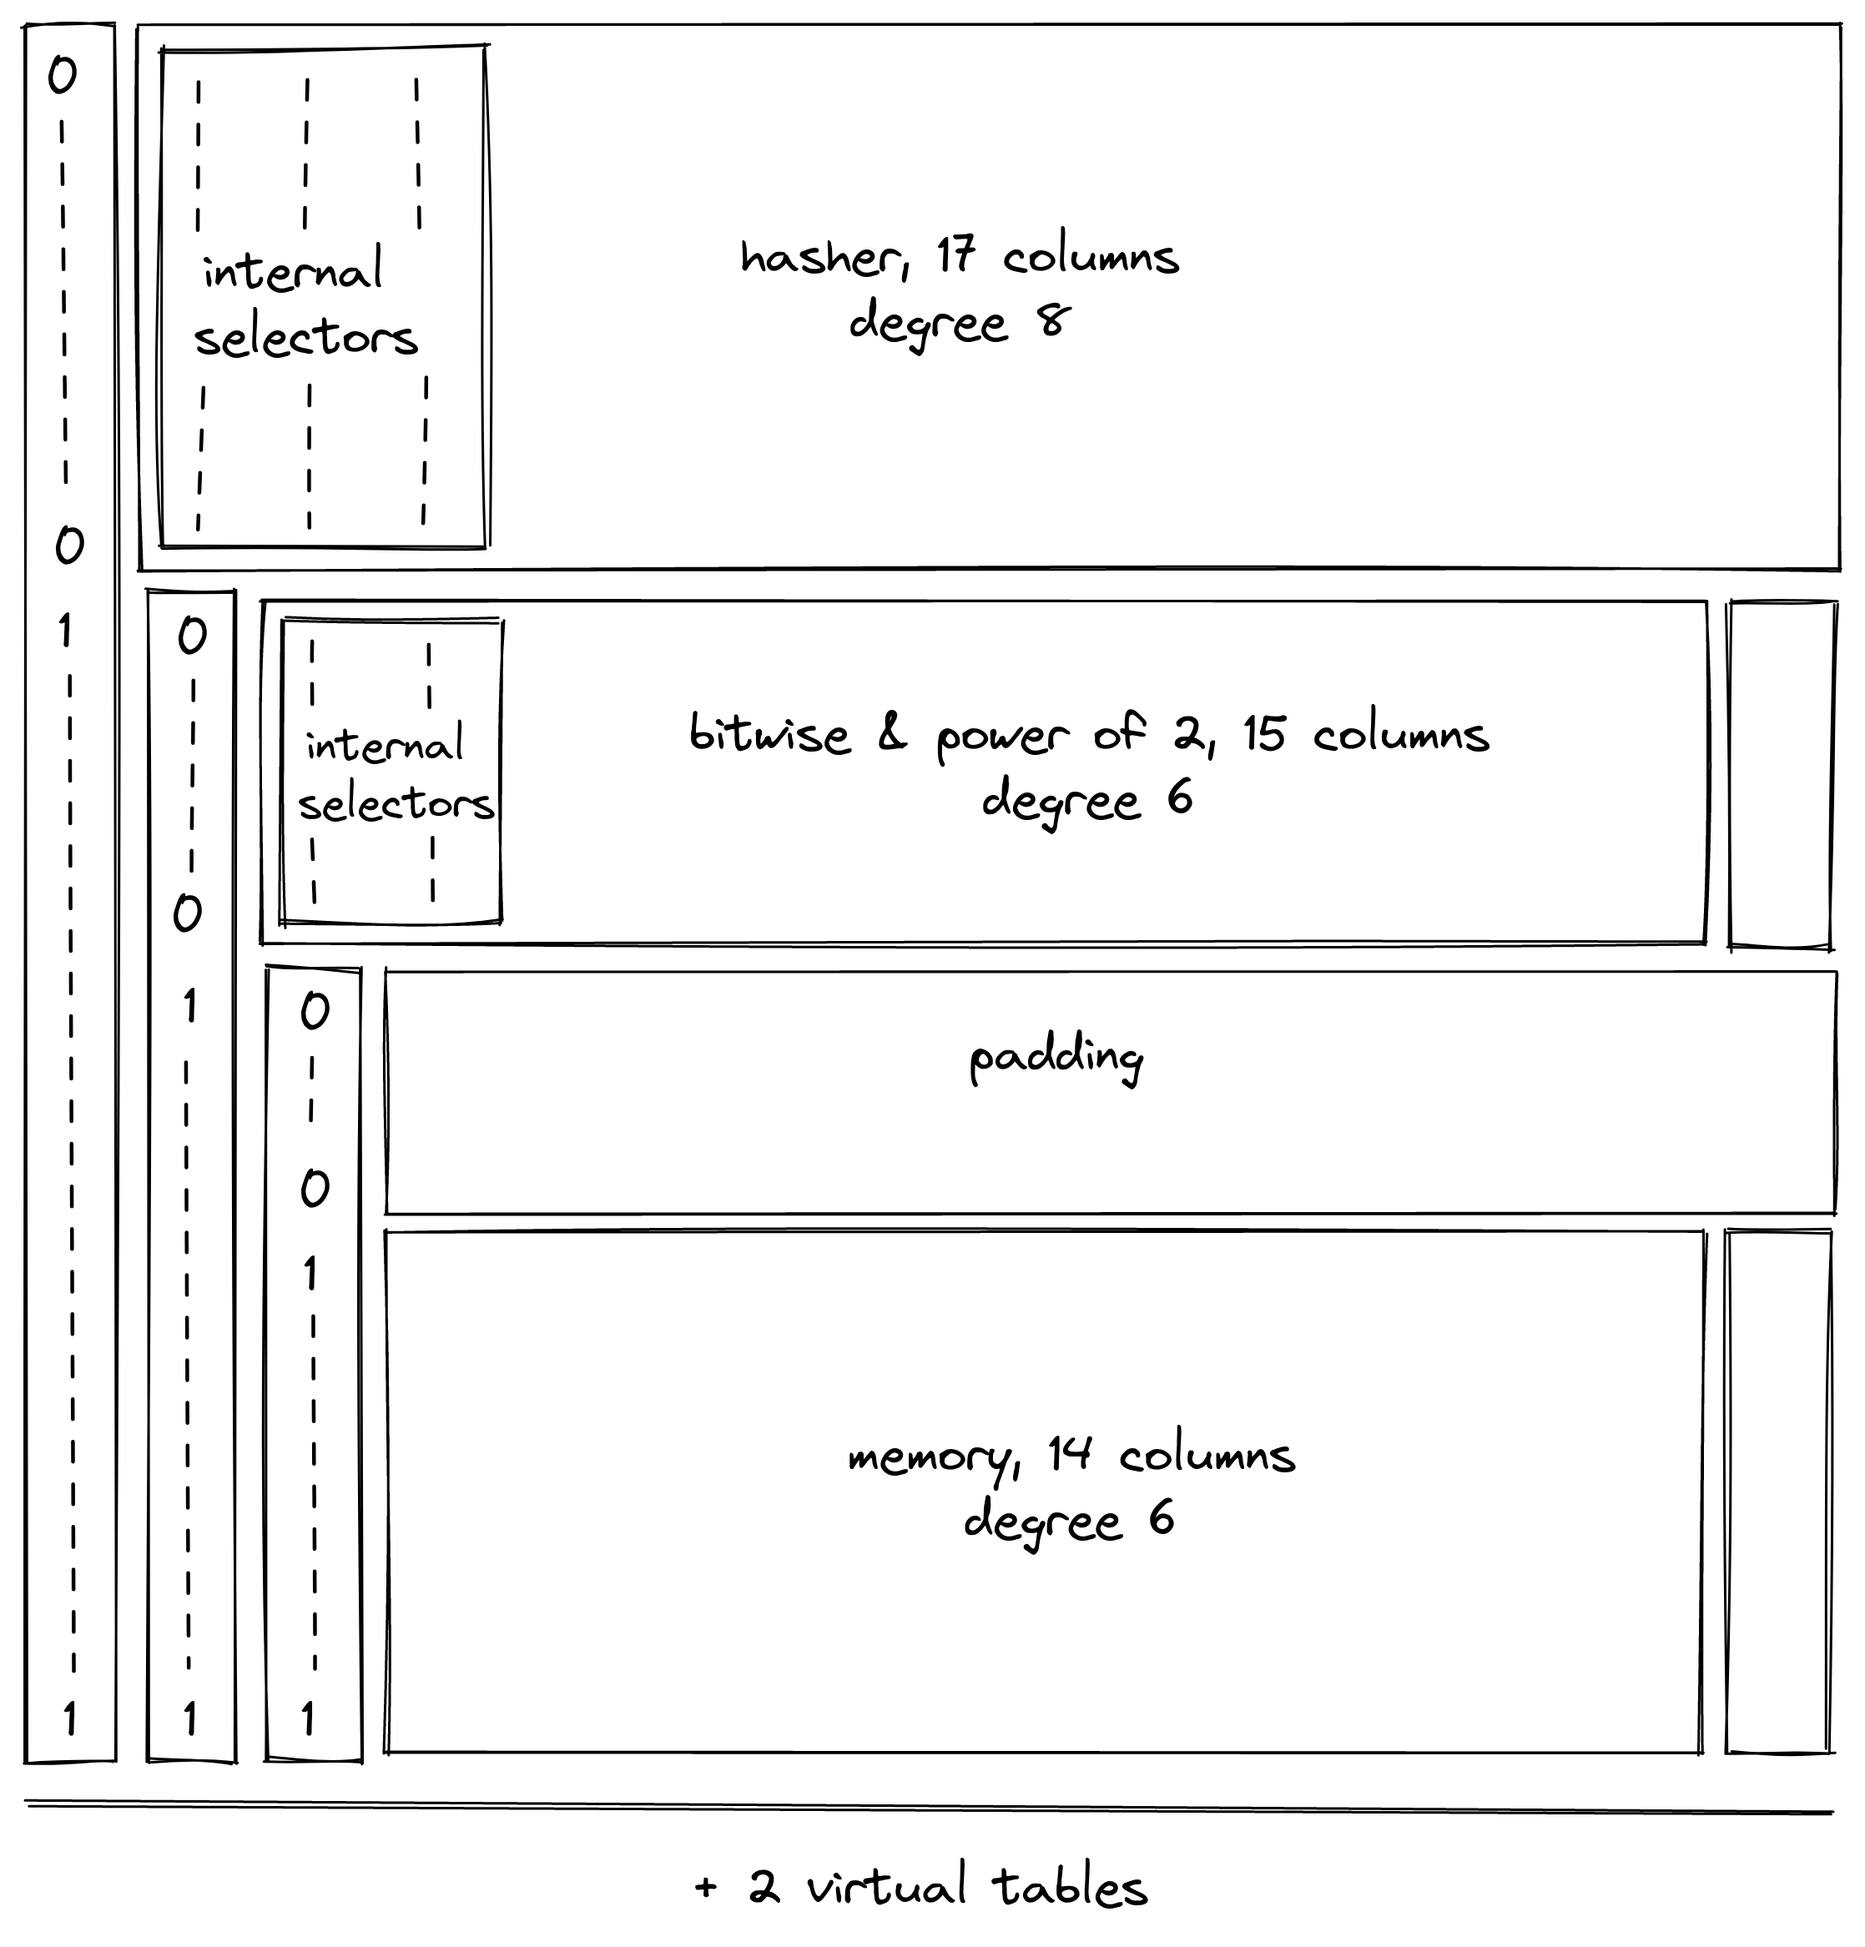
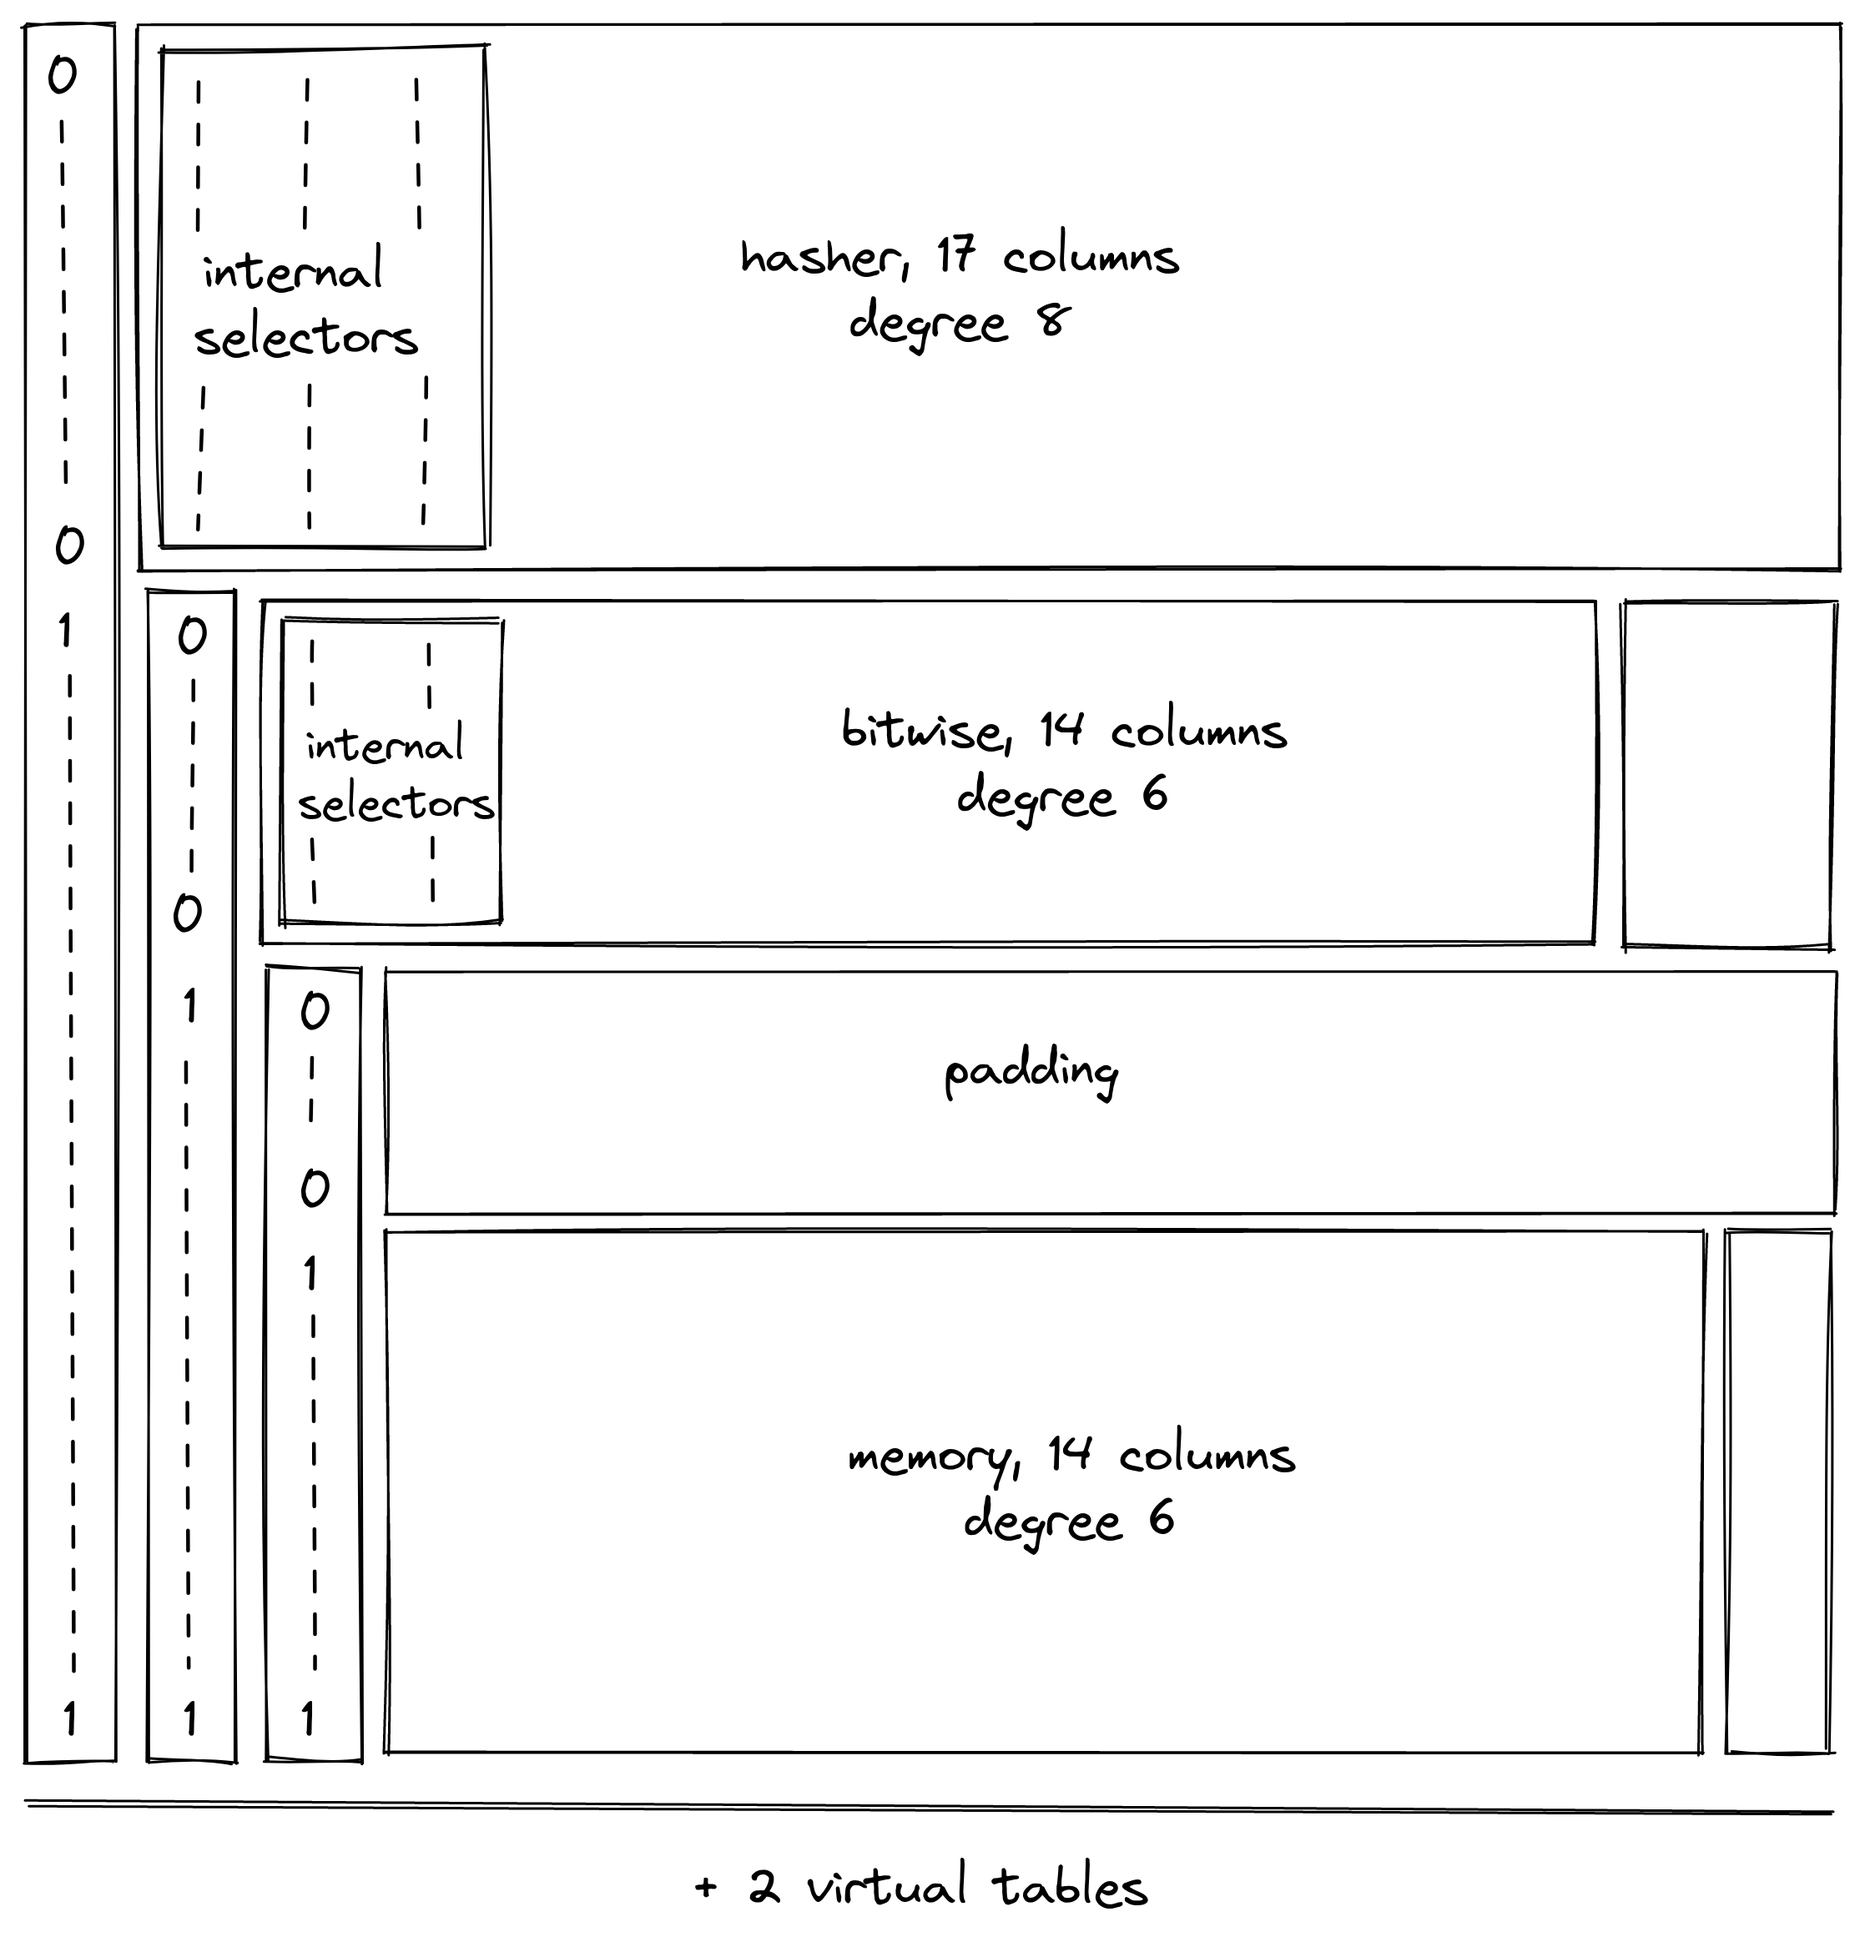
docs(mdbook): remove pow2 co-processor from aux_table
- update aux table of bitwise coprocessor
   - udpate cycle count of u32 ops impacted
   - udpated doc of new Aux Table

diff --git a/assembly/src/parsers/u32_ops.rs b/assembly/src/parsers/u32_ops.rs
@@ -433,7 +433,7 @@ pub fn parse_u32not(span_ops: &mut Vec<Operation>, op: &Token) -> Result<(), Ass
 ///
 /// VM cycles per mode:
 /// - u32shl: 46 cycles
-/// - u32shl.b: 46 cycles
+/// - u32shl.b: 4 cycles
 /// - u32shl.unsafe: 39 cycles
 pub fn parse_u32shl(span_ops: &mut Vec<Operation>, op: &Token) -> Result<(), AssemblyError> {
     let drop_remainder = match op.num_parts() {
@@ -478,7 +478,7 @@ pub fn parse_u32shl(span_ops: &mut Vec<Operation>, op: &Token) -> Result<(), Ass
 ///
 /// VM cycles per mode:
 /// - u32shr: 46 cycles
-/// - u32shr.b: 46 cycles
+/// - u32shr.b: 4 cycles
 /// - u32shr.unsafe: 44 cycles
 pub fn parse_u32shr(span_ops: &mut Vec<Operation>, op: &Token) -> Result<(), AssemblyError> {
     let drop_remainder = match op.num_parts() {
@@ -532,7 +532,7 @@ pub fn parse_u32shr(span_ops: &mut Vec<Operation>, op: &Token) -> Result<(), Ass
 ///
 /// VM cycles per mode:
 /// - u32rotl: 46 cycles
-/// - u32rotl.b: 46 cycles
+/// - u32rotl.b: 4 cycles
 /// - u32rotl.unsafe: 40 cycles
 pub fn parse_u32rotl(span_ops: &mut Vec<Operation>, op: &Token) -> Result<(), AssemblyError> {
     match op.num_parts() {
@@ -570,7 +570,7 @@ pub fn parse_u32rotl(span_ops: &mut Vec<Operation>, op: &Token) -> Result<(), As
 ///
 /// VM cycles per mode:
 /// - u32rotr: 58 cycles
-/// - u32rotr.b: 48 cycles
+/// - u32rotr.b: 6 cycles
 /// - u32rotr.unsafe: 44 cycles
 pub fn parse_u32rotr(span_ops: &mut Vec<Operation>, op: &Token) -> Result<(), AssemblyError> {
     match op.num_parts() {

diff --git a/processor/src/bitwise/mod.rs b/processor/src/bitwise/mod.rs
@@ -216,7 +216,7 @@ impl Bitwise {
     // HELPER METHODS
     // --------------------------------------------------------------------------------------------
 
-    /// Appends a new row to the trace table and populates the first 15 columns of trace as follows:
+    /// Appends a new row to the trace table and populates the first 14 columns of trace as follows:
     /// - Columns 0 and 1 are set to the selector values for the bitwise operation being executed.
     /// - Column 2 is set to the current value of `a`.
     /// - Column 3 is set to the current value of `b`.

diff --git a/docs/src/design/aux_table/main.md b/docs/src/design/aux_table/main.md
@@ -1,15 +1,13 @@
 # Auxiliary Table
 
-The Auxiliary Table reduces the number of columns required by the execution trace by stacking the execution traces of 4 co-processors that are expected to generate significantly fewer rows than the other VM processors (the decoder, stack, and range checker).
+The Auxiliary Table reduces the number of columns required by the execution trace by stacking the execution traces of 3 co-processors that are expected to generate significantly fewer rows than the other VM processors (the decoder, stack, and range checker).
 
 ## Auxiliary Table segments
 
-The co-processors in the auxiliary table are:
+The co-processors in the auxiliary table are:the result in the result column.
 
 - [Hash Processor](./hasher.md) (17 columns; degree 8)
-- Bitwise & Power of Two Processor, which combines 2 co-processors:
-  - [Bitwise Processor](./bitwise.md) (15 columns; degree 6)
-  - [Power of Two Processor](./pow2.md) (15 columns; degree 3)
+- [Bitwise Processor](./bitwise.md) (14 columns; degree 6)
 - [Memory Processor](./memory.md) (14 columns; degree 6)
 
 Each co-processor is identified by a set of selector columns which identify its segment in the auxiliary table and cause its constraints to be selectively applied.
@@ -33,17 +31,10 @@ Additionally, a padding segment must be added to the Auxiliary Table so that the
 ### Bitwise
 
 - The constraints for the bitwise co-processor have degree 6, so its selector flag cannot exceed degree 3.
-- The bitwise co-processor requires 13 columns, so it can have at most 5 selector columns.
+- The bitwise co-processor requires 12 columns, so it can have at most 6 selector columns.
 - Each bitwise operation in the bitwise processor is performed in an 8-row cycle that must begin at a row number equal to $0\mod8$, so the bitwise processor's trace must begin on a row number equal to $0\mod8$.
 
 Note: If the bitwise co-processor is [refactored](https://github.com/maticnetwork/miden/issues/120) to process only one bitwise operation, rather than three, then its internal selector flags could be removed. In this case, the constraint degree would be reduced to 4 and the number of columns would be reduced to 11.
-
-### Power of two
-
-- The constraints for the power of two co-processor have degree 3, so its selector flag cannot exceed degree 6.
-- The power of two co-processor requires 13 columns, so it can have at most 5 selector columns.
-- The power of two operations is completed in an 8-row cycle that must begin at a row number equal to $0\mod8$, so the Power of Two processor's trace must begin on a row number equal to $0\mod8$.
-- As described in the Challenge section below, the input and output aggregation constraints must not be applied to the last row.
 
 ### Memory
 
@@ -59,13 +50,11 @@ To fulfill the requirements above, we'll start by placing the Hasher at the top 
 
 ![hasher](../../assets/design/aux_table/hasher.png)
 
-Next, we would like to include the other cyclic co-processors: the Bitwise and Power of Two processors.
+Next, we would like to include the other cyclic co-processors: the Bitwise.
 
-That would leave the Memory co-processor to go last. However, if we use a selector column for each of 4 co-processors and also put the Memory co-processor at the end, then the selectors will cause us to exceed the maximum degree for the Memory co-processor's constraints.
+That would leave the Memory co-processor to go last. However, if we use a selector column for each of 3 co-processors and also put the Memory co-processor at the end, then the selectors will cause us to exceed the maximum degree for the Memory co-processor's constraints.
 
-We can get around this problem by combining the Bitwise and Power of Two processors into a single co-processor with a shared trace, so that the Power of Two processor becomes an additional operation in the Bitwise processor which will be selected by the Bitwise processor's internal selector columns. We'll need to add two columns to the Bitwise trace in order for the Power of Two operation to fit. The degree of the combined processor will be 6, and the selector flag from the two selector columns will push it to degree 8, which is fine.
-
-![hasher_bitwise](../../assets/design/aux_table/hasher_bitwise_pow2.png)
+![hasher_bitwise](../../assets/design/aux_table/hasher_bitwise.png)
 
 Finally, we come to the Memory co-processor, where we still need to deal with the "last row problem" (described below). The three selector flags for the Memory section mean that the constraint degree is already at the maximum of 9, which gives us 2 options:
 
@@ -84,16 +73,13 @@ $$s_0^2 - s_0 = 0$$
 $$s_0 \cdot (s_1^2 - s_1) = 0$$
 $$s_0 \cdot s_1 \cdot (s_2^2 - s_2) = 0$$
 
-### Combined Bitwise & Power of Two Co-processor
+### Bitwise Co-processor
 
-Because the Bitwise and Power of Two co-processors have been combined to share a trace, the enforcement of operation selectors should be handled at the shared co-processor level rather than individually by the Bitwise or Power of Two co-processors themselves.
-
-The selectors for each operation are as follows:
+We have three bitwise operation in bitwise co-processor. The selectors for each operation are as follows:
 
 - `U32AND`: $s_0 = 0$, $s_1 = 0$
 - `U32OR`: $s_0 = 0$, $s_1 = 1$
 - `U32XOR`: $s_0 = 1$, $s_1 = 0$
-- `POW2`: $s_0 = 1$, $s_1 = 1$
 
 The constraints must require that the selectors be binary and stay the same throughout the cycle:
 $$s_0^2 - s_0 = 0$$
@@ -135,10 +121,6 @@ CONFLICT: our transition constraint from Processor A will require that this be 4
   $$r' - r - 1 = 0$$
 - [Memory](./memory.md) - all transition constraints, in particular this degree 6 constraint:
   $$(1−n_0)⋅(n_1^2−n_1)=0$$
-- [Power of 2](./pow2.md) - the input aggregation constraint (degree 2) and the output aggregation constraint (degree 4), which are:
-  $$a' - (a_0' + a_1'+a_2'+ ... + a_7' + k_1 \cdot a) = 0$$
-
-$$k_1 \cdot (zp' - z) = 0$$
 
 ### Possible solutions
 

diff --git a/docs/src/SUMMARY.md b/docs/src/SUMMARY.md
@@ -23,6 +23,5 @@
   - [Auxiliary Table](./design/aux_table/main.md)
     - [Hash Processor](./design/aux_table/hasher.md)
     - [Bitwise Processor](./design/aux_table/bitwise.md)
-    - [Power of Two Processor](./design/aux_table/pow2.md)
     - [Memory Processor](./design/aux_table/memory.md)
 - [Background Material](./background.md)

diff --git a/docs/src/design/main.md b/docs/src/design/main.md
@@ -4,5 +4,4 @@
 - [Auxiliary Table](./aux_table/main.md)
   - [Hash Processor](./aux_table/hasher.md)
   - [Bitwise Processor](./aux_table/bitwise.md)
-  - [Power of Two Processor](./aux_table/pow2.md)
   - [Memory Processor](./aux_table/memory.md)
